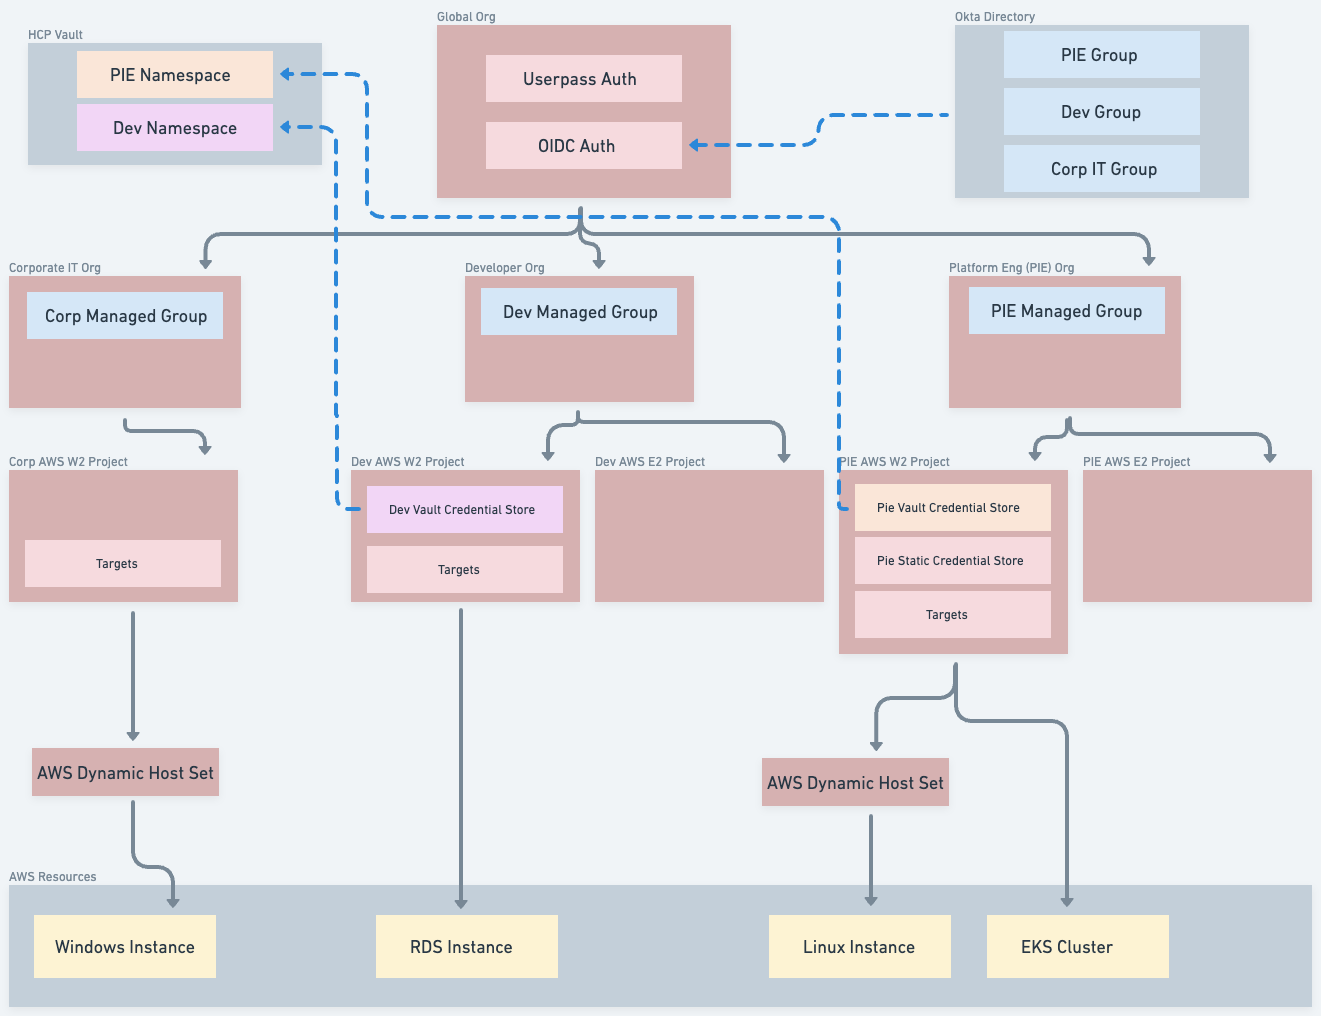
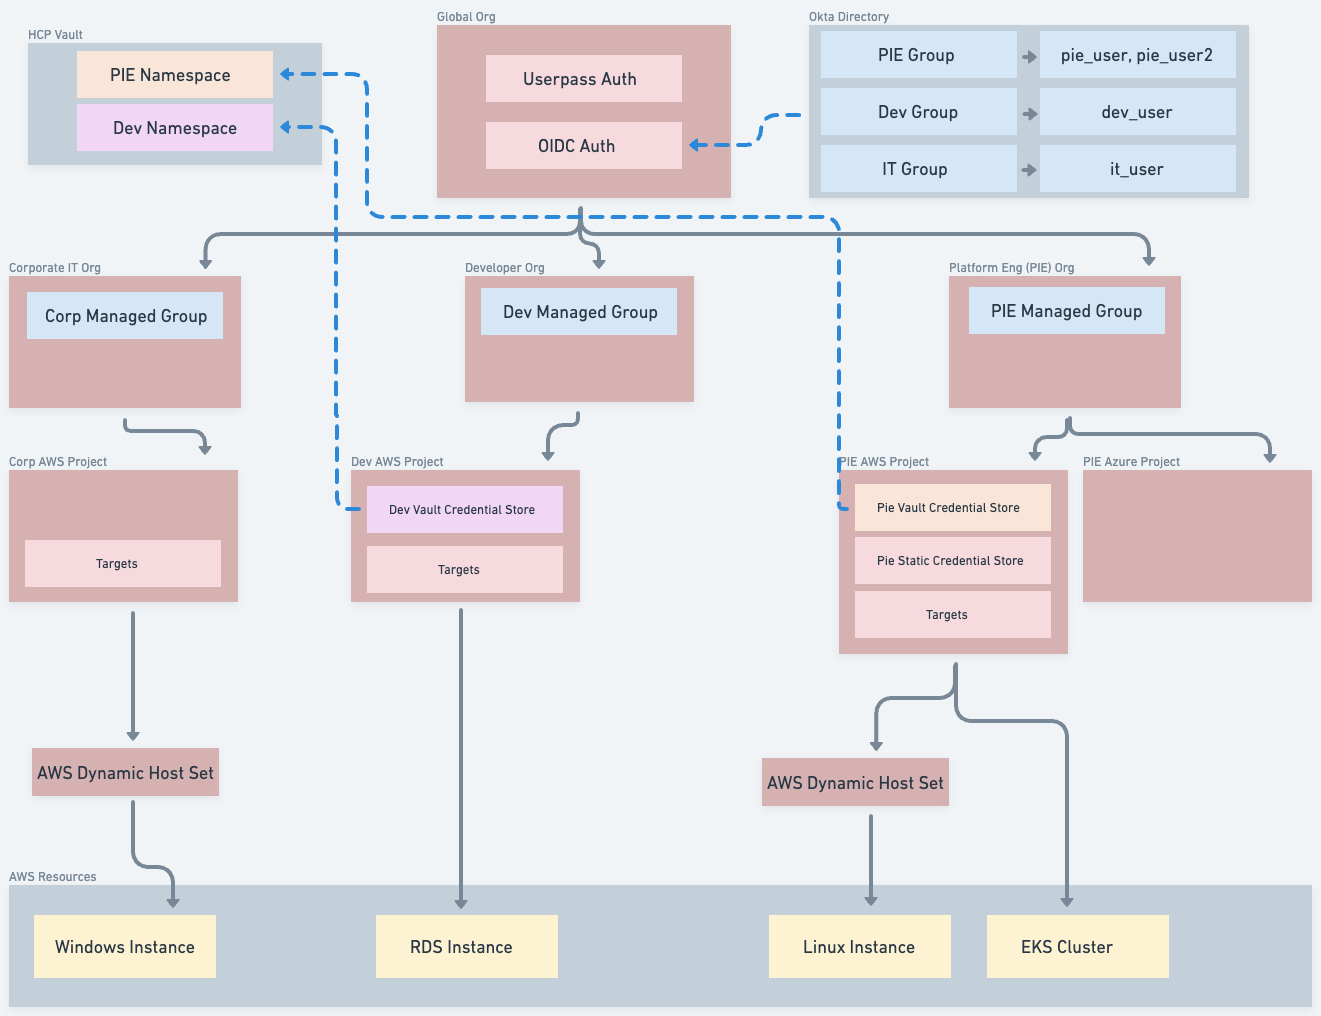
Added ssh cert admin target and updated readme

diff --git a/readme.md b/readme.md
@@ -24,97 +24,137 @@ This terraform code builds an HCP Boundary enviroment that inclues connectivity 
 
 ## Setup
 ### Workspaces and Variables
-This repo was built to run on Terraform Cloud or Enterprise.  It uses the tfe_outputs data source to pass parameters from the init module to the build module.  If you want to run this locally you will need to modify the code to use cross state sharing to populate those values.  Additionally, you will need to update or remote the cloud provider block to match your Terraform configuration. 
+This repo was built to run on Terraform Cloud or Enterprise.  It uses the tfe_outputs data source to pass parameters between the boundary_demo_init workspace and other workspaces.  If you want to run this locally you will need to modify the code to use cross state sharing to populate those values.  
 
-This repo consists of two modules that need to be run in the below order:
+The ***providers.tf*** file in each workspace includes a cloud block that targets a TFC/TFE organization.  You will need to update this block to reflect your TFC/TFE org name.  
+
+This repo consists of three modules:
  
-**boundary-demo-init** - This module builds an HCP Boundary Cluster and HCP Vault Cluster along with an associated HVN for the Vault Cluster.  
-**boundary-demo-eks** - This module does the bulk of the work, building out all of the Boundary and Vault configuration as well as the AWS components used as workers and targets.
+**boundary-demo-tfc-build** - This module is run using local terraform execution and build the boundary-demo-init and boundary-demo-targets workspaces in TFC/TFE
 
-#### boundary-demo-init
-| Variable | Type | Purpose |
-| --------- | -------- | -------- |
-| boundary_user | terraform | The user name you would like to use for the default admin user created in the HCP Boundary Cluster |
-| boundary_password | terraform | The password you would like to use for the default admin user created in the HCP Boundary Cluster |
-| region | terraform | The AWS region into which to deploy the Hashicorp Virtual Network |
-| HCP_CLIENT_ID | environment | The Client ID used to authenticate to HCP |
-| HCP_CLIENT_SECRET | environment | The Secret Key used to authenticate to HCP |
+**boundary-demo-init** - This workspace builds an HCP Boundary cluster and HCP Vault cluster along with an associated HVN for the Vault cluster.  
 
+**boundary-demo-targets** - This workspace does the bulk of the work, building out all of the Boundary and Vault configuration as well as the AWS components used as workers and targets.
 
-#### boundary-demo-eks
-| Variable | Type | Purpose |
-| --------- | -------- | -------- |
-| region | terraform | The AWS region into which to deploy the worker and targets |
-| boundary_user | terraform | The Boundary admin user that will be set in the provider | 
-| boundary_password | terraform | The Boundary admin user password that will be set in the provider |
-| db_user | terraform | The username to set on the Postgres database Boundary target |
-| db_password | terraform | The password to set on the Postgres database Boundary target |
-| okta_baseurl | terraform | The base url for the Okta organization used for OIDC integration.  Probably okta.com |
-| okta_org_name | terraform | The organization name for the Okta organization use for OIDC integration i.e. dev-32201783 |
-| okta_user_password | terraform | The password to set on the PIE, DEV and IT users created in Okta |
-| admin_pass | terraform | The password to set on the Administrator account for the Windows target |
-| HCP_CLIENT_ID | environment | The Client ID used to authenticate the HCP provider |
-| HCP_CLIENT_SECRET | environment | The Secret Key used to authenticate the HCP provider |
-| OKTA_API_TOKEN | environment | The token used to authenticate the Okta provider |
-| TFE_TOKEN | environment | The token used to authenticate the Terraform provider to use the tfe_outputs data source |
-| AWS_ACCESS_KEY_ID | environment | The AWS Access Key used to authenticate the AWS provider |
-| AWS_SECRET_ACCESS_KEY | environment | The AWS Secret Key used to authenticate the AWS provider |
+| Variable | Type | Sensitive | Purpose |
+| --------- | -------- | -------- | -------- |
+| **organization** | terraform | No | The TFC/TFE Organization Name |
+| **boundary_user** | terraform | No | The username the default admin user created in the HCP Boundary Cluster |
+| **boundary_password** | terraform | Yes | The password of the default admin user created in the HCP Boundary Cluster |
+| **region** | terraform | No | The AWS region into which to deploy the Hashicorp Virtual Network and AWS resources |
+| **okta_baseurl** | terraform | No | The base url of the Okta organization to use for OIDC integration.  Usually okta.com |
+| **okta_org_name** | terraform | No | The organization name of hte OKta organization to use for OIDC integration i.e dev-32201783 |
+| **okta_user_password** | terraform | Yes | The password to set on the Okta users created and added to the Boundary application |
+| **admin_pass** | terraform | Yes | The password to set for the Administrator account on the Windows target |
+| **public_key** | terraform | No | The SSH public key to set on the AWS EC2 instances as the default login |
+| **aws_varset** | terraform | No | The name of a pre-existing Variable Set that contains AWS credentials set as environment variables |
+| **OKTA_API_TOKEN** | environment | Yes | The API token used to authenticate the Okta provider |
+| **HCP_CLIENT_ID** | environment | Yes | The Client ID used to authenticate the HCP provider |
+| **HCP_CLIENT_SECRET** | environment | Yes | The Secret Key used to authenticate the HCP provider |
 
-**Notes**
+It is recommended that you pass any variables marked sensitive as environment variables or through CLI flags.  
+
+**Important Notes**
 - If you do not wish to use the Okta integration you can delete or comment out the okta.tf file.  
 - The Dynamic Host Set setup uses an IAM role and User configuration that is specific to Hashicorp Employee AWS sandbox accounts.  If used in account without restrictions on the ability to create IAM users and policies then you will want to modify the configuration at the top of the boundary.tf config file to create the required IAM user and policy directly.  
 
 ### To Build
-Set the variables to appropriate values and update the cloud block in the providers.tf files in each module as appropriate.  
-Init and apply the boundary-demo-init terraform first
+- Set the non-sensitive variables for the *boundary-demo-tfc-build* module in a terraform.tfvars file.  
+- Set the sensitive variables as environment variables. 
 
-`boundary-demo-init % terraform init`
+    - For example:
 
-`boundary-demo-init % terraform apply -auto-approve`
+    - `export TF_VAR_HCP_CLIENT_SECRET=123456789`
+- Update the **cloud block** in the providers.tf file in the *boundary-demo-init* and *boundary-demo-targets* workspaces to reflect your TFE/TFC organization name.  
+- Once all variables have been set, perform a terraform init and apply on the *boundary-demo-tfc-build* module.  
 
-Once the boundary-demo-init run has completed init and apply the boundary-demo-eks terraform
+    - `boundary-demo-tfc-build % terraform init`
 
-`boundary-demo-eks % terraform init`
+    - `boundary-demo-tfc-build % terraform apply -auto-approve`
 
-`boundary-demo-eks % terraform apply -auto-approve`
+- This will create two workspaces in your TFC environment: *boundary-demo-init* and *boundary-demo-targets*.  
+- Build the *boundary-demo-init* workspace first.  
+
+    - `boundary-demo-init % terraform init`
+
+    - `boundary-demo-init % terraform apply -auto-approve`
+
+- Once the *boundary-demo-init* run has completed perform an init and apply on the *boundary-demo-targets* workspace
+
+    - `boundary-demo-targets % terraform init`
+
+    - `boundary-demo-targets % terraform apply -auto-approve`
 
 **Notes**: 
 - The terraform code is generally stable and completes in a single run but if you experience issues a second run is usually enough to correct them.  
 - If the self-managed worker does not come up properly you can rebuild it by tainting the boundary_worker and aws_instance resources in the created in the worker.tf file and then rerunning the terraform apply on the boundary-demo-eks workspace.  
 
-`terraform taint boundary_worker.hcp_pki_worker`
+    - `terraform taint boundary_worker.hcp_pki_worker`
 
-`terraform taint aws_instance.worker`
+    - `terraform taint aws_instance.worker`
 
 ### To Destroy
-The TF code creates a Session Recording Bucket object in the pie_org scope.  Boundary does not currently support deleting Session Recording Buckets so when attempting to run `terraform destroy` TF will throw an error.  This will prevent both the bucket from being removed and the associated pie_org scope in Boundary (since the bucket is a member of that scope).  Currently the workaround is to remove both the bucket and the pie_org object from TF state and then completely destroy the eks workspace.  Once that's completed run a destroy on the init workspace to delete the Boundary cluster, which will also delete the project and session recording bucket.  
+Destroy the workspaces in the reverse order that you created them.  Run a `terraform destroy` first on the *boundary-demo-targets* workspace, then on the *boundary-demo-init* workspace and finally on the *boundary-demo-tfc-build* module.  
+
+The TF code creates a Session Recording Bucket object in the global scope.  **Boundary does not currently support deleting Session Recording Buckets so when attempting to run `terraform destroy` on the *boundary-demo-targets* workspace TF will throw an error.**  Currently the workaround is remove the boundary_storage_bucket resource from state and then run the destroy.  
+
+- `terraform state rm boundary_storage_bucket.pie_session_recording_bucket` 
 
 ## Connecting to Targets
-If you are using the Okta integration then:
-- Members of the dev_users group in Okta have permissions to connect to the targets in the dev_w2_project scope
-- Members of the pie_users group in Okta have permissions to connect to the targets in the pie_w2_project scope
-- Members of the it_users group in Okta have permissions to connect to the targets in the it_w2_project scope
+### Okta Users
+When using the Okta integration four users are created in your directory.  
 
-### Connect to the SSH certificate target
+| User | Okta Group | Boundary Org | Description |
+| --------- | -------- | -------- | -------- |
+| pie_user@boundary.lab | pie_users | PIE Org | Has rights to connect to all targets in PIE org |
+| pie_user2@boundary.lab | pie_users | PIE Org | Has rights to connect to all targets in PIE org |
+| dev_user@boundary.lab | dev_users | DEV Org | Has rights to connect to all targets in DEV org |
+| it_user@boundary.lab | it_users | IT Org | Has rights to connect to all targets in IT org |
+
+**Passwords** - All Okta users have the same password which is the value of the okta_user_password terraform variable that you set in the *boundary-demo-tfc-build* workspace.  
+
+### Available Targets
+| Target | Project | Credentials | Description |
+| --------- | -------- | -------- | -------- |
+| pie-ssh-cert-target | pie_aws_project | Injected using Vault SSH Cert Secrets Engine | Connects to the SSH target as the logged in username.  **Only usable when logged in via Okta as pie_user or pie_user2** |
+| pie-ssh-cert-target-admin | pie_aws_project | Injected using Vault SSH Cert Secrets Engine | Connects to the SSH target as ec2-user |
+| pie-ssh-tcp-target | pie_aws_project | User supplied ssh key | Connect using user supplied SSH key |
+| pie-k8s-target | pie_aws_project | User supplied kubeconfig | Connect using user supplied kubeconfig |
+| dev-db-target | dev_aws_project | Brokered from Vault DB Secrets Engine | Connects using credentials brokered from Vault |
+| it-rdp-target | it_aws_project | User supplied username and password | Connect using Administrator user and password set as admin_pass TF variable |
+
+### Authenticate to Boundary
+Connect as admin user.  The admin_auth_method_id can be found in the outputs of the boundary-demo-init workspace:
+`boundary authenticate password -auth-method-id <admin_auth_method_id>`
+
+Connect as Okta user:
+`boundary authenticate`
+
+### Connect to the SSH certificate target as Okta user
+
 `boundary connect ssh -target-scope-name pie_aws_project -target-name pie-ssh-cert-target`
 
-### Connecting to SSH TCP taget with brokered credentials for some admin user configured on the server
-You can use the private key that matches the public key supplied in the public_key terraform variable to connect to the SSH target by passing the -i flag to ssh
+### Connect to the SSH certificate target as ec2-user admin account
+
+`boundary connect ssh -target-scope-name pie_aws_project -target-name pie-ssh-cert-target-admin`
+
+### Connect to SSH TCP target (no injected credentials)
+When you set up the *boundary-demo-tfc-build* workspace you set a public key to install on the EC2 instances.  You will use the private key that matches that public key to log in to the SSH server.  You can use the -i flag to point to the private key.  
 
 `boundary connect ssh -target-scope-name pie_aws_project -target-name pie-ssh-tcp-target -- -l ec2-user -i <path/to/private_key>`
 
 ### Connect to the K8s target
-You will still need credentials to connect to the EKS cluster via K8s, which you can get via the AWS CLI.  Be sure to set the appropriate region where you deployed your AWS resources.
+You will still need credentials to connect to the EKS cluster via K8s, which you can get via the AWS CLI.  Be sure to set the appropriate region where you deployed your AWS resources.  You will need the AWS CLI installed and configured to generate EKS credentials.  
 
 `aws eks update-kubeconfig --name boundary-demo-cluster --region $AWS_REGION`
 
-`boundary connect kube -target-scope-name pie_aws_project -target-name pie-k8s-target -- get pods`
+`boundary connect kube -target-scope-name pie_aws_project -target-name pie-k8s-target -- get nodes`
 
 ### Connect to the Postgres database target
 `boundary connect postgres -target-scope-name dev_aws_project -target-name dev-db-target -dbname postgres`
 
 ### Connect to the RDP target
-**Username:** Administrator   
+**Username:** BOUNDARY\Administrator   
 **Password:** The value of the *admin_pass* terraform variable in the boundary-demo-eks workspace
 
 **On Windows**

diff --git a/changelog.md b/changelog.md
@@ -1,4 +1,12 @@
-# 7-9-2023
+# 9-18-2023
+
+* Added delay for storage bucket creation to allow worker to come up and register first. 
+* Added TFC deployment module to build the init and targets workspaces in TFC
+* Added username templating for SSH cert target
+  - Users pie_user and pie_user2 can be used to log in via SSH certificates to the ssh-cert-target
+* Windows target is now created as a domain controller
+
+# 9-7-2023
 
 * Changed Okta account provisioning process.  
   - Terraform code now creates the Okta Users and Groups so they do not need to be pre-created.  
